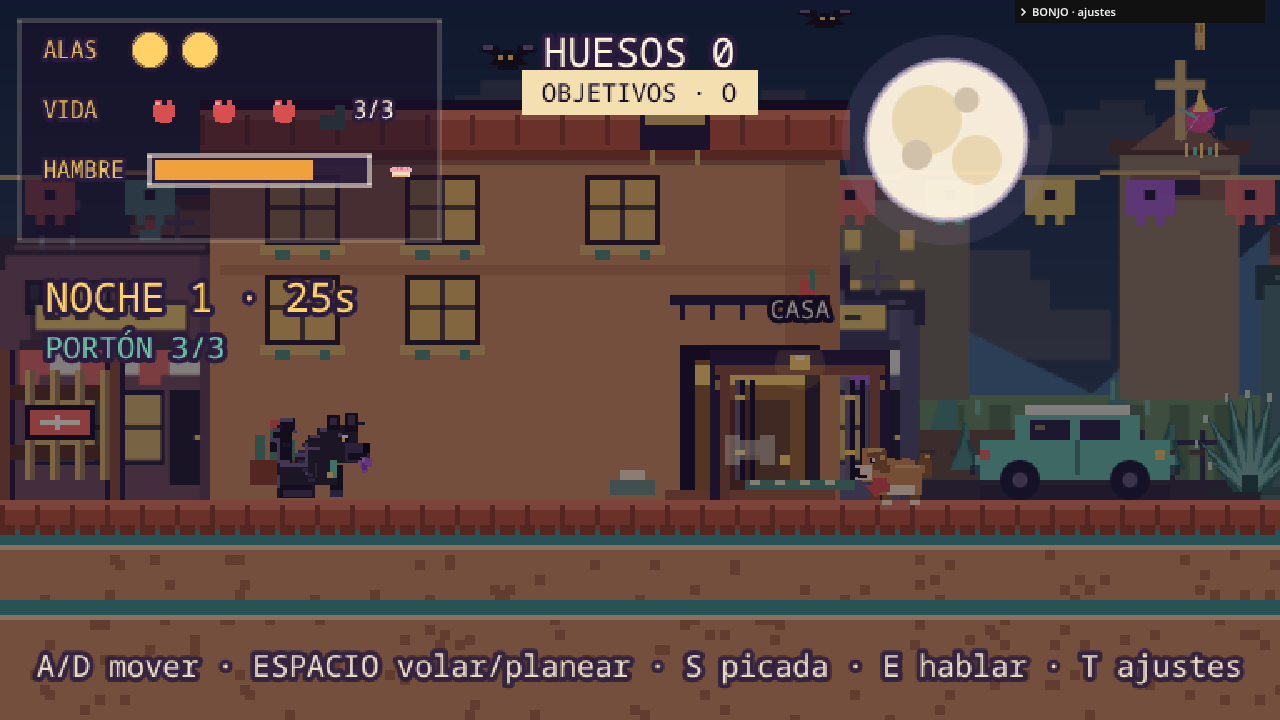
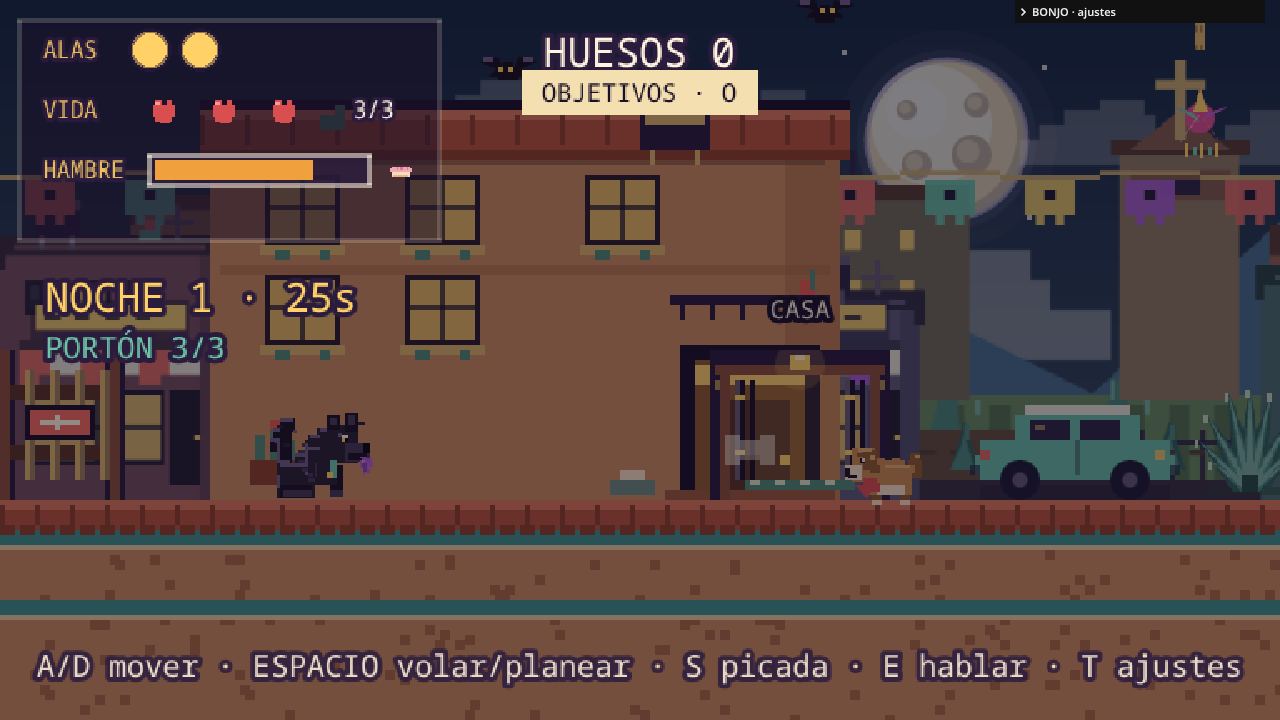
Move the moon behind the scene layers

diff --git a/src/scenes/Level1.js b/src/scenes/Level1.js
@@ -455,13 +455,14 @@ export default class Level1 extends Phaser.Scene {
     this.sun = this.add
       .image(W - 51 * S, 56 * S, 'sun')
       .setScrollFactor(0.04)
-      .setDepth(-29)
+      .setDepth(-28)
       .setAlpha(0.95);
 
     this.moon = this.add
       .image(W * 0.74, 48 * S, 'moon')
       .setScrollFactor(0.04)
-      .setDepth(61)
+      // Sky layer: behind clouds, town, gameplay and the HUD.
+      .setDepth(-27)
       .setAlpha(0)
       .setVisible(false);
 
@@ -484,7 +485,7 @@ export default class Level1 extends Phaser.Scene {
     this.skyNight = this.add
       .rectangle(W / 2, 72 * S, W, 144 * S, 0x05030d, 1)
       .setScrollFactor(0)
-      .setDepth(-23)
+      .setDepth(-29)
       .setAlpha(0);
 
     this.town = this.add
@@ -2310,6 +2311,16 @@ export default class Level1 extends Phaser.Scene {
       alpha: 0.68,
       duration: 900,
     });
+    this.tweens.add({
+      targets: this.cloudsFar,
+      alpha: 0.28,
+      duration: 900,
+    });
+    this.tweens.add({
+      targets: this.cloudsNear,
+      alpha: 0.42,
+      duration: 900,
+    });
 
     this.showPhaseBanner(`${t('hud.night')} ${this.nightsSurvived + 1}`, '#ffd166');
     sfx.bell();
@@ -2375,6 +2386,16 @@ export default class Level1 extends Phaser.Scene {
     this.tweens.add({
       targets: this.skyNight,
       alpha: 0,
+      duration: 900,
+    });
+    this.tweens.add({
+      targets: this.cloudsFar,
+      alpha: 0.5,
+      duration: 900,
+    });
+    this.tweens.add({
+      targets: this.cloudsNear,
+      alpha: 0.75,
       duration: 900,
     });
 
